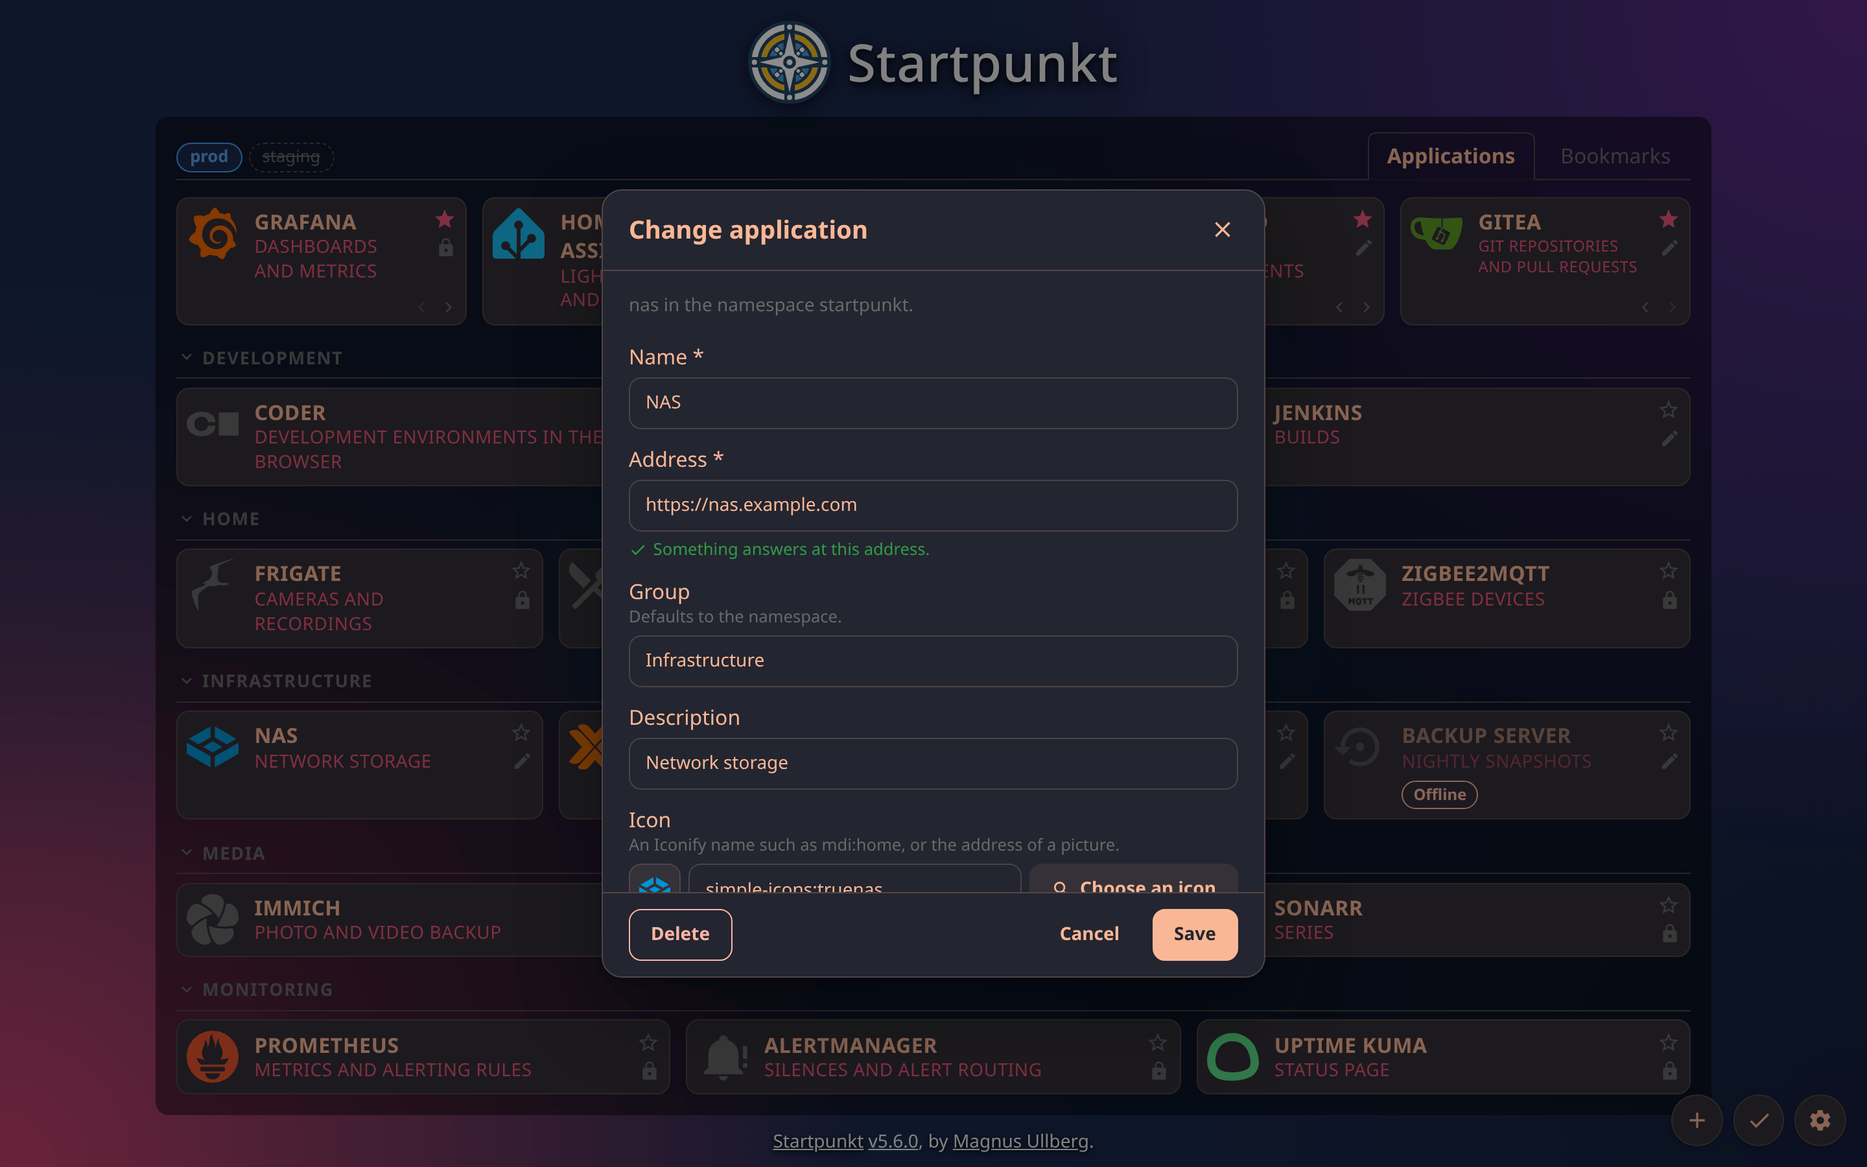
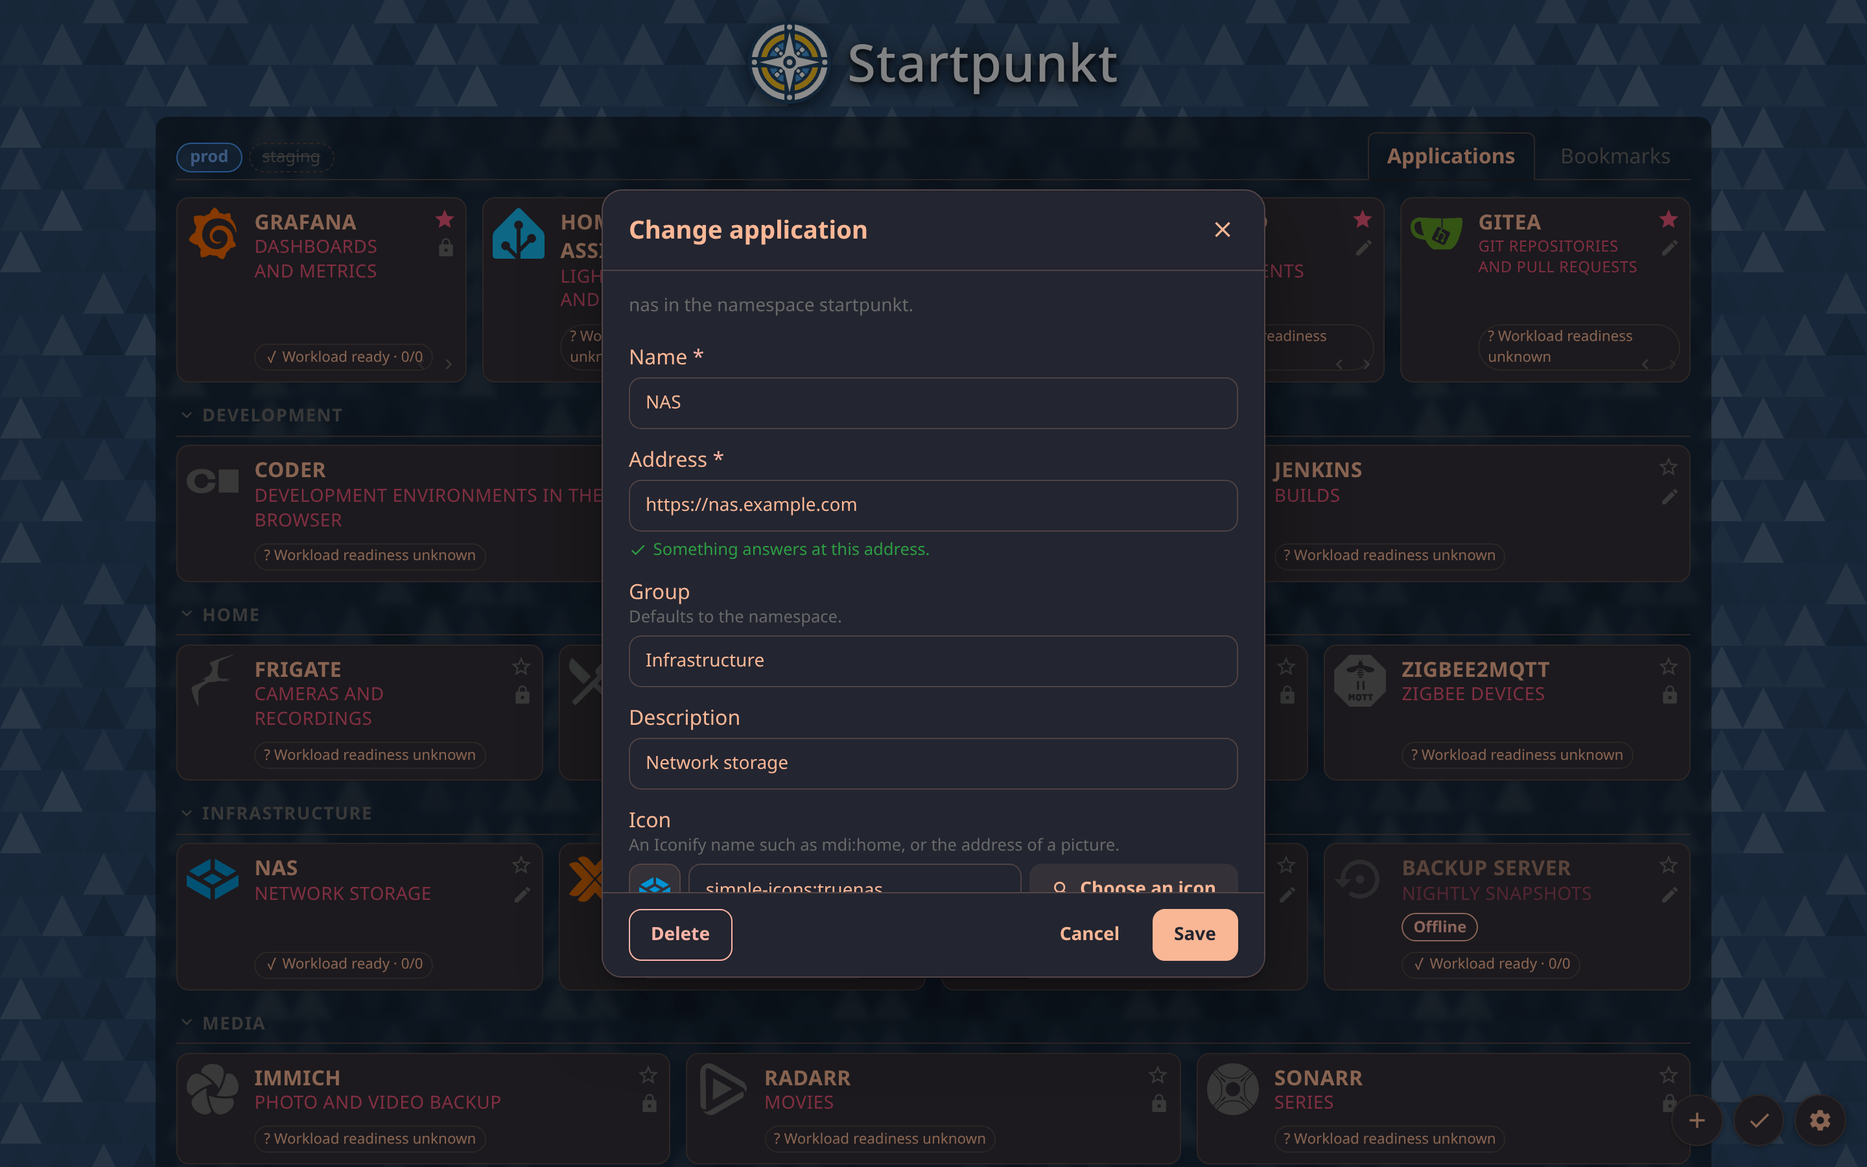
feat(editor): preview and override inherited secondary links

diff --git a/web/src/components/Editing.test.tsx b/web/src/components/Editing.test.tsx
@@ -260,6 +260,7 @@ describe('Editor', () => {
     const put = calls.find(([, init]) => init.method === 'PUT')!;
     expect(JSON.parse(put[1].body as string)).toEqual({
       resourceVersion: '42',
+
       spec: { name: 'Documentation', group: 'Reference', url: 'https://example.com/docs', links: spec.links },
     });
   });
@@ -279,6 +280,89 @@ describe('Editor', () => {
     expect(field('Name').value).toBe('My unsaved title');
     expect(onClose).not.toHaveBeenCalled();
     expect(JSON.parse(calls.find(([, init]) => init.method === 'PUT')![1].body as string).resourceVersion).toBe('41');
+  });
+
+  it('shows annotation links without writing an override on an ordinary save', async () => {
+    const inheritedLinks = [{ name: 'Documentation', url: 'https://docs.example.com' }];
+    const { fetcher, calls } = server({
+      'GET /api/v1/applications/home/grafana': () => json(200, {
+        namespace: 'home', name: 'grafana', resourceVersion: '12', inheritedLinks,
+        spec: { name: 'Grafana', url: 'https://grafana.example.com' },
+      }),
+      'PUT /api/v1/applications/home/grafana': () => json(200, {}),
+    });
+    render(<Editor target={{ kind: 'applications', namespace: 'home', name: 'grafana' }} namespace="home" onClose={vi.fn()} fetcher={fetcher} />);
+    await waitFor(() => expect(field('Link 1 name').value).toBe('Documentation'));
+    expect(field('Link 1 name').readOnly).toBe(true);
+    expect(field('Link 1 address').readOnly).toBe(true);
+    expect(screen.getByText(/These links come from the resource annotation/)).toBeTruthy();
+    expect(screen.queryByRole('button', { name: 'Remove link 1' })).toBeNull();
+    type('Name', 'Monitoring');
+    fireEvent.click(screen.getByRole('button', { name: 'Save' }));
+    await waitFor(() => expect(calls.some(([, init]) => init.method === 'PUT')).toBe(true));
+    const body = JSON.parse(calls.find(([, init]) => init.method === 'PUT')![1].body as string);
+    expect(body.spec).toEqual({ name: 'Monitoring', url: 'https://grafana.example.com' });
+  });
+
+  it('explicitly overrides inherited links and clears them', async () => {
+    const inheritedLinks = [{ name: 'Documentation', url: 'https://docs.example.com' }];
+    const { fetcher, calls } = server({
+      'GET /api/v1/applications/home/grafana': () => json(200, {
+        namespace: 'home', name: 'grafana', resourceVersion: '12', inheritedLinks,
+        spec: { name: 'Grafana', url: 'https://grafana.example.com' },
+      }),
+      'PUT /api/v1/applications/home/grafana': () => json(200, {}),
+    });
+    const onClose = vi.fn();
+    render(<Editor target={{ kind: 'applications', namespace: 'home', name: 'grafana' }} namespace="home" onClose={onClose} fetcher={fetcher} />);
+    fireEvent.click(await screen.findByRole('button', { name: 'Override links' }));
+    expect(field('Link 1 name').readOnly).toBe(false);
+    fireEvent.click(screen.getByRole('button', { name: 'Remove link 1' }));
+    fireEvent.click(screen.getByRole('button', { name: 'Save' }));
+    await waitFor(() => expect(onClose).toHaveBeenCalledOnce());
+    expect(JSON.parse(calls.find(([, init]) => init.method === 'PUT')![1].body as string).spec.links).toEqual([]);
+
+  });
+
+  it('resets a spec override to annotation links without changing the annotation', async () => {
+    const { fetcher, calls } = server({
+      'GET /api/v1/bookmarks/links/docs': () => json(200, {
+        namespace: 'links', name: 'docs', resourceVersion: '18',
+        inheritedLinks: [{ name: 'Original', url: 'https://original.example.com' }],
+        spec: { name: 'Docs', group: 'links', url: 'https://example.com', links: [{ name: 'Override', url: 'https://override.example.com' }] },
+      }),
+      'PUT /api/v1/bookmarks/links/docs': () => json(200, {}),
+    });
+    render(<Editor target={{ kind: 'bookmarks', namespace: 'links', name: 'docs' }} namespace="home" onClose={vi.fn()} fetcher={fetcher} />);
+    await waitFor(() => expect(field('Link 1 name').value).toBe('Override'));
+    fireEvent.click(screen.getByRole('button', { name: 'Use annotation links' }));
+    expect(field('Link 1 name').value).toBe('Original');
+    fireEvent.click(screen.getByRole('button', { name: 'Save' }));
+    await waitFor(() => expect(calls.some(([, init]) => init.method === 'PUT')).toBe(true));
+    expect(JSON.parse(calls.find(([, init]) => init.method === 'PUT')![1].body as string).spec).not.toHaveProperty('links');
+  });
+
+  it('keeps a valid override and disables reset when the annotation links are invalid', async () => {
+    const links = [{ name: 'Docs', url: 'https://docs.example.com' }];
+    const inheritedLinksError = 'unknown annotation field <img src=x onerror=alert(1)>';
+    const { fetcher, calls } = server({
+      'GET /api/v1/bookmarks/links/docs': () => json(200, {
+        namespace: 'links', name: 'docs', resourceVersion: '18', inheritedLinksError,
+        spec: { name: 'Docs', group: 'links', url: 'https://example.com', links },
+      }),
+      'PUT /api/v1/bookmarks/links/docs': () => json(200, {}),
+    });
+    render(<Editor target={{ kind: 'bookmarks', namespace: 'links', name: 'docs' }} namespace="home" onClose={vi.fn()} fetcher={fetcher} />);
+    const error = await screen.findByRole('alert');
+    expect(error.textContent).toContain('The annotation links are invalid.');
+    expect(error.textContent).toContain(inheritedLinksError);
+    expect(document.querySelector('img[src="x"]')).toBeNull();
+    expect((screen.getByRole('button', { name: 'Use annotation links' }) as HTMLButtonElement).disabled).toBe(true);
+    expect(field('Link 1 name').value).toBe('Docs');
+    expect(field('Link 1 name').readOnly).toBe(false);
+    fireEvent.click(screen.getByRole('button', { name: 'Save' }));
+    await waitFor(() => expect(calls.some(([, init]) => init.method === 'PUT')).toBe(true));
+    expect(JSON.parse(calls.find(([, init]) => init.method === 'PUT')![1].body as string).spec.links).toEqual(links);
   });
 
   it('adds, validates and removes secondary links', async () => {

diff --git a/web/src/components/Editing.tsx b/web/src/components/Editing.tsx
@@ -118,8 +118,10 @@ export function Editor({
   const [kind, setKind] = useState<EditKind>(target.kind);
   const [base, setBase] = useState<Spec | null>(existing ? null : {});
   const [resourceVersion, setResourceVersion] = useState<string>();
+  const [inheritedLinks, setInheritedLinks] = useState<SecondaryLink[]>([]);
+  const [inheritedLinksError, setInheritedLinksError] = useState<string | null>(null);
+  const [linksOverride, setLinksOverride] = useState(false);
   const [links, setLinks] = useState<SecondaryLink[]>([]);
-  const [linksEdited, setLinksEdited] = useState(false);
   const [values, setValues] = useState<FormValues>(() => ({
     ...toForm('applications', {}),
     ...toForm('bookmarks', {}),
@@ -136,6 +138,9 @@ export function Editor({
         if (!current) return;
         setBase(resource.spec ?? {});
         setResourceVersion(resource.resourceVersion);
+        setInheritedLinks(resource.inheritedLinks ?? []);
+        setInheritedLinksError(resource.inheritedLinksError ?? null);
+        setLinksOverride(resource.spec.links !== undefined);
         setLinks(Array.isArray(resource.spec.links) ? (resource.spec.links as SecondaryLink[]) : []);
         setValues(toForm(target.kind, resource.spec ?? {}));
       })
@@ -194,7 +199,7 @@ export function Editor({
     }
     const spec = toSpec(kind, base, values);
     delete spec.links;
-    if (savedLinks.length > 0 || base.links !== undefined || linksEdited) spec.links = savedLinks;
+    if (linksOverride) spec.links = savedLinks;
     void run(() => saveResource({ ...target, kind, resourceVersion }, spec, fetcher));
   };
 
@@ -230,11 +235,13 @@ export function Editor({
   );
   const tags = [...new Set(tiles.flatMap((tile) => tile.tags))].sort((a, b) => a.localeCompare(b));
 
+  const showingInherited = !linksOverride && inheritedLinks.length > 0;
+  const shownLinks = showingInherited ? inheritedLinks : links;
   const title = t(`edit.${existing ? 'change' : 'add'}.${kind}` as MessageKey);
   const set = (name: string, value: string | boolean) => setValues({ ...values, [name]: value });
   const changeLinks = (next: SecondaryLink[]) => {
     setLinks(next);
-    setLinksEdited(true);
+    setLinksOverride(true);
   };
   return (
     <Modal label={title} class="settings editor" onClose={onClose}>
@@ -395,10 +402,28 @@ export function Editor({
             );
           })}
         {base !== null && (
-          <fieldset class="field field-wide" data-links>
+          <fieldset class="field field-wide" data-links aria-describedby={inheritedLinksError ? 'inherited-links-error' : undefined}>
             <legend>{t('edit.links.title')}</legend>
             <p class="help">{t('edit.links.help')}</p>
-            {links.map((link, index) => (
+            {inheritedLinksError && <p class="field-error" id="inherited-links-error" role="alert">
+              {t('edit.links.inheritedInvalid')} {' '}{inheritedLinksError}
+            </p>}
+            {showingInherited && <p class="help">{t('edit.links.inherited')}</p>}
+            {showingInherited && (
+              <button type="button" class="d-btn d-btn-outline d-btn-sm" onClick={() => changeLinks(inheritedLinks.map((link) => ({ ...link })))}>
+                {t('edit.links.override')}
+              </button>
+            )}
+            {linksOverride && existing && (
+              <button type="button" class="d-btn d-btn-ghost d-btn-sm" disabled={Boolean(inheritedLinksError)} onClick={() => {
+                setLinksOverride(false);
+                setLinks([]);
+                setSent(false);
+              }}>
+                {t('edit.links.reset')}
+              </button>
+            )}
+            {shownLinks.map((link, index) => (
               <div class="field field-wide" key={index}>
                 <label class="field field-wide">
                   <span>{t('edit.links.name', { index: index + 1 })}</span>
@@ -406,6 +431,7 @@ export function Editor({
                     class="d-input"
                     type="text"
                     maxLength={80}
+                    readOnly={showingInherited}
                     value={link.name}
                     onInput={(event) =>
                       changeLinks(links.map((value, i) => (i === index ? { ...value, name: event.currentTarget.value } : value)))
@@ -418,19 +444,20 @@ export function Editor({
                     class="d-input"
                     type="url"
                     maxLength={4096}
+                    readOnly={showingInherited}
                     value={link.url}
                     onInput={(event) =>
                       changeLinks(links.map((value, i) => (i === index ? { ...value, url: event.currentTarget.value } : value)))
                     }
                   />
                 </label>
-                <button
+                {!showingInherited && <button
                   type="button"
                   class="d-btn d-btn-ghost d-btn-sm"
                   onClick={() => changeLinks(links.filter((_, i) => i !== index))}
                 >
                   {t('edit.links.remove', { index: index + 1 })}
-                </button>
+                </button>}
               </div>
             ))}
             {sent && invalidLinks && (
@@ -439,7 +466,7 @@ export function Editor({
             <button
               type="button"
               class="d-btn d-btn-outline d-btn-sm"
-              disabled={links.length >= 8}
+              disabled={showingInherited || links.length >= 8}
               onClick={() => changeLinks([...links, { name: '', url: '' }])}
             >
               {t('edit.links.add')}

diff --git a/web/src/editing.ts b/web/src/editing.ts
@@ -84,6 +84,8 @@ export type Spec = Record<string, unknown>;
 
 export interface Resource {
   resourceVersion: string;
+  inheritedLinks?: { name: string; url: string }[];
+  inheritedLinksError?: string;
   namespace: string;
   name: string;
   spec: Spec;

diff --git a/internal/kube/editor_test.go b/internal/kube/editor_test.go
@@ -11,6 +11,7 @@ import (
 	metav1 "k8s.io/apimachinery/pkg/apis/meta/v1"
 
 	"github.com/ullbergm/startpunkt/internal/edit"
+	"github.com/ullbergm/startpunkt/internal/source"
 )
 
 func editorFor(c *cluster) *Editor {
@@ -253,5 +254,40 @@ func TestEditorRejectsChangesSinceTheFormWasOpened(t *testing.T) {
 				t.Fatalf("stale save overwrote the first: %+v, %v", current, err)
 			}
 		})
+	}
+}
+
+func TestEditorInheritedLinksUseStrictSourceValidation(t *testing.T) {
+	obj := app("v1", "home", "a", "https://a.test")
+	obj.SetAnnotations(map[string]string{source.AnnotationPrefix + "links": `[{"name":"Docs","url":"https://docs.test","typo":true}]`})
+	got, err := resource(obj)
+	if err != nil {
+		t.Fatal(err)
+	}
+	if len(got.InheritedLinks) != 0 || got.InheritedLinksError == "" {
+		t.Fatal("editor preview accepted annotation links refused by the source")
+	}
+}
+
+func TestEditorRefusesResetToMalformedAnnotationLinks(t *testing.T) {
+	obj := app("v1", "home", "a", "https://a.test")
+	obj.SetResourceVersion("1")
+	obj.Object["spec"].(map[string]any)["links"] = []any{map[string]any{"name": "Valid", "url": "https://valid.test"}}
+	obj.SetAnnotations(map[string]string{source.AnnotationPrefix + "links": `[{"name":"Docs","url":"https://docs.test","typo":true}]`})
+	c := newCluster(obj)
+	c.serve("v1")
+	e := editorFor(c)
+	ctx := context.Background()
+	opened, err := e.Get(ctx, edit.Applications, "home", "a")
+	if err != nil {
+		t.Fatal(err)
+	}
+	opened.Spec = json.RawMessage(`{"name":"a","url":"https://a.test"}`)
+	if _, err := e.Update(ctx, edit.Applications, opened); statusOf(err) != http.StatusBadRequest {
+		t.Fatalf("invalid fallback accepted: %v", err)
+	}
+	opened.Spec = json.RawMessage(`{"name":"a","url":"https://a.test","links":[]}`)
+	if _, err := e.Update(ctx, edit.Applications, opened); err != nil {
+		t.Fatalf("explicit empty override rejected: %v", err)
 	}
 }

diff --git a/internal/kube/editor.go b/internal/kube/editor.go
@@ -138,6 +138,11 @@ func (e *Editor) Update(ctx context.Context, kind string, r edit.Resource) (edit
 	if err := changeable(obj); err != nil {
 		return edit.Resource{}, err
 	}
+	if _, overridden := spec["links"]; !overridden {
+		if _, err := source.AnnotationLinks(obj.GetAnnotations()); err != nil {
+			return edit.Resource{}, edit.Errorf(http.StatusBadRequest, "annotation links are invalid; keep an explicit override or fix the annotation")
+		}
+	}
 	if r.ResourceVersion == "" {
 		return edit.Resource{}, edit.Errorf(http.StatusBadRequest, "resourceVersion is required; open the resource again")
 	}
@@ -189,7 +194,15 @@ func resource(obj *unstructured.Unstructured) (edit.Resource, error) {
 	if err != nil {
 		return edit.Resource{}, err
 	}
-	return edit.Resource{Namespace: obj.GetNamespace(), Name: obj.GetName(), ResourceVersion: obj.GetResourceVersion(), Spec: data}, nil
+	inherited, inheritedErr := source.AnnotationLinks(obj.GetAnnotations())
+	inheritedError := ""
+	if inheritedErr != nil {
+		inheritedError = inheritedErr.Error()
+		if len(inheritedError) > 1024 {
+			inheritedError = inheritedError[:1024]
+		}
+	}
+	return edit.Resource{Namespace: obj.GetNamespace(), Name: obj.GetName(), ResourceVersion: obj.GetResourceVersion(), InheritedLinks: inherited, InheritedLinksError: inheritedError, Spec: data}, nil
 }
 
 // translate turns an error of the API server into one for the caller of

diff --git a/internal/edit/edit.go b/internal/edit/edit.go
@@ -31,6 +31,9 @@ type Resource struct {
 	Namespace       string `json:"namespace"`
 	Name            string `json:"name"`
 	ResourceVersion string `json:"resourceVersion,omitempty"`
+	// InheritedLinks are annotation links, independent of any spec override.
+	InheritedLinks      []tile.Link `json:"inheritedLinks,omitempty"`
+	InheritedLinksError string      `json:"inheritedLinksError,omitempty"`
 	// Spec is the spec of the resource, with the fields of api/v1.
 	Spec json.RawMessage `json:"spec"`
 }

diff --git a/internal/source/links.go b/internal/source/links.go
@@ -37,3 +37,9 @@ func secondaryLinks(spec []apiv1.Link, annotations map[string]string) ([]tile.Li
 	}
 	return links, nil
 }
+
+// AnnotationLinks returns the same strictly checked fallback links used by
+// tile adapters, for the editor's inherited-link preview.
+func AnnotationLinks(annotations map[string]string) ([]tile.Link, error) {
+	return secondaryLinks(nil, annotations)
+}

diff --git a/docs/v5-design.md b/docs/v5-design.md
@@ -249,6 +249,7 @@ There is one client shape: the UI always needs every tile plus configuration. A 
 
 - Reading is open by default. Anyone who can reach the page sees the tiles, and there are no user accounts.
 - Personal preferences (favorites, layout, background, collapsed groups, cluster filter) can be changed by anyone. They are stored in that browser only and never reach the server.
+- Resource reads include optional `inheritedLinks` and `inheritedLinksError` for the annotation preview. The editor keeps inherited links read-only until explicitly overridden; reset omits `spec.links`. Invalid annotation inheritance disables reset, and the server rejects such a reset with 400 rather than accepting a spec that would hide the tile.
 - Editing applications and bookmarks requires an edit key. The operator supplies the key from a Kubernetes Secret.
 - When no edit key is configured, editing is disabled: the write endpoints do not exist, so a request to one is answered with 404. Edit mode is then entered freely and is for favorites only.
 - When a key is configured, edit mode is gated on it. The button that enters edit mode asks for the key, checks it against `GET /unlock`, and stores it in `localStorage`; a browser that has the key enters without being asked. Without the key the page is not in edit mode, which also means that favorites are arranged with the key only. There is no separate lock or unlock control. "Forget the edit key" in the settings dialog removes the stored key and leaves edit mode, and so does a write that the server answers with 401. In edit mode, tiles with `editable: true` open their form, which also deletes, and a button creates new applications and bookmarks: the form for a new one opens on the kind of the tab that is shown and lets the other be chosen.

diff --git a/README.md b/README.md
@@ -249,6 +249,7 @@ Things to know before turning it on:
 - The key is one shared secret, not a login. Everyone who has it can edit, and changes are not attributed to a person. It has to be at least 16 characters long.
 - The browser keeps the key, so it is asked for once, until "Forget the edit key" is chosen in the settings.
 - With a key configured, marking favorites and arranging them takes the key as well, since they are done in edit mode.
+- The resource editor shows secondary links inherited from annotations, with controls to override them or return to inheritance. An invalid annotation is shown as an error and cannot be selected by resetting the override. See [secondary links](docs/secondary-links.md#editing-inherited-links).
 - The instance is granted `create`, `update` and `delete` on the two resource types. Tiles that come from an Ingress, a Route or another cluster cannot be changed from the page.
 - Only `http` and `https` addresses are accepted.
 - The form checks what is typed and says what is wrong next to the field. It also asks the instance whether something answers at the address, and says so; an address that does not answer can be saved all the same. Whoever has the key can in this way learn whether an address answers from inside the cluster, which they could also learn by adding it as a tile.

diff --git a/docs/secondary-links.md b/docs/secondary-links.md
@@ -35,3 +35,9 @@ The annotation works for built-in annotated sources and CEL mappings. An Applica
 Each link needs a nonempty name of at most 80 bytes and an absolute HTTP or HTTPS address of at most 4096 bytes. A malformed annotation or invalid link is reported as a source error, and that object's tiles are omitted. The edit API checks the same limits. Secondary addresses are not probed.
 
 The optional `links` array is part of the `/api/v1` tile contract and is preserved through split mode and federation. Clients that do not know it can ignore it.
+
+## Editing inherited links
+
+The editor shows annotation links even when `spec.links` is absent. They are read-only until **Override** copies them into the spec. Removing every overridden link saves an explicit empty list. **Use annotation links** removes the spec override and restores inheritance.
+
+Resource reads return the annotation preview as `inheritedLinks`, independently of the current spec override. An invalid annotation returns `inheritedLinksError` instead. The editor shows that error as text and disables resetting to the invalid annotation; a valid spec override can still be edited. The server returns 400 if a write would remove the override while the annotation is invalid. These controls change `spec.links`, not the annotation.
